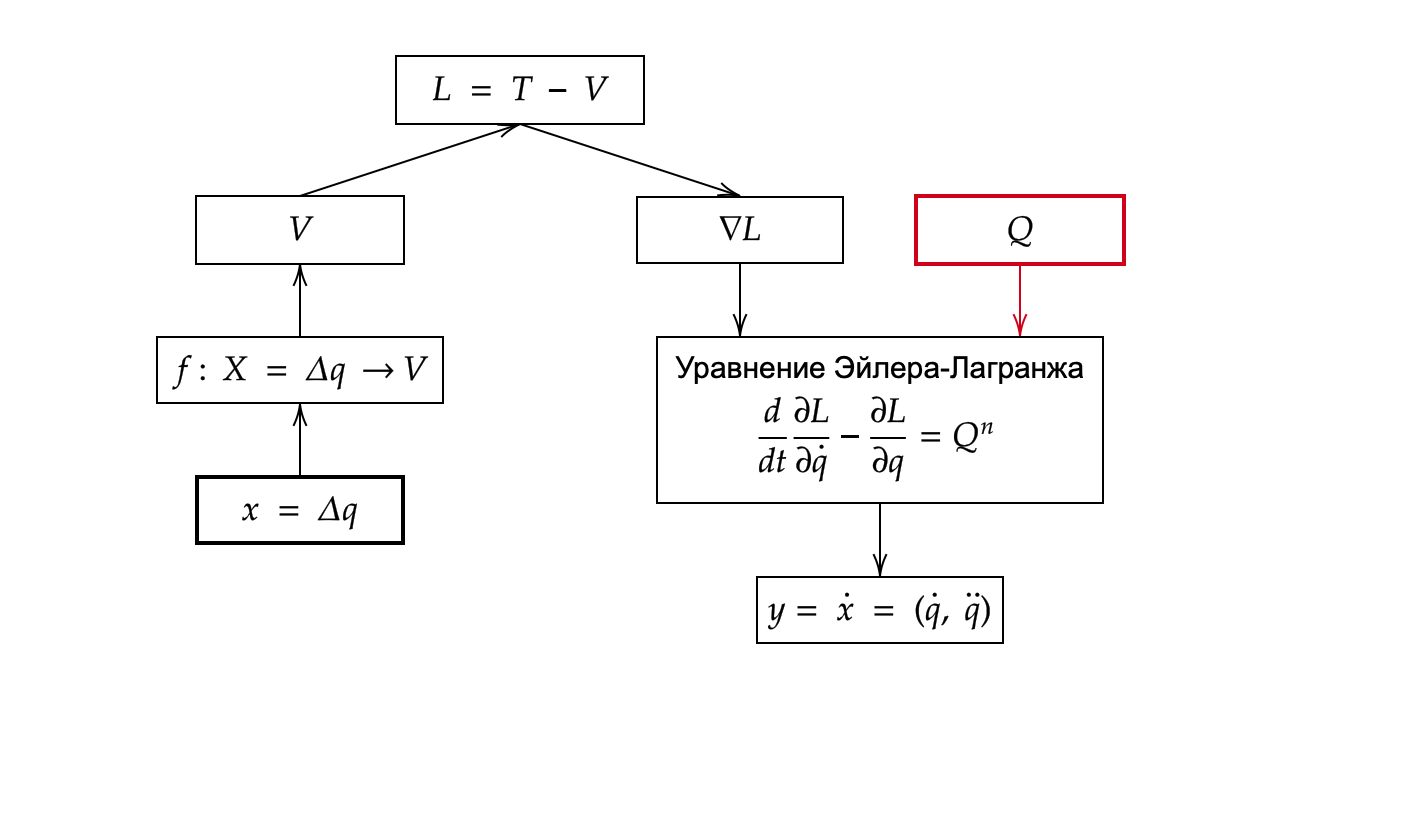
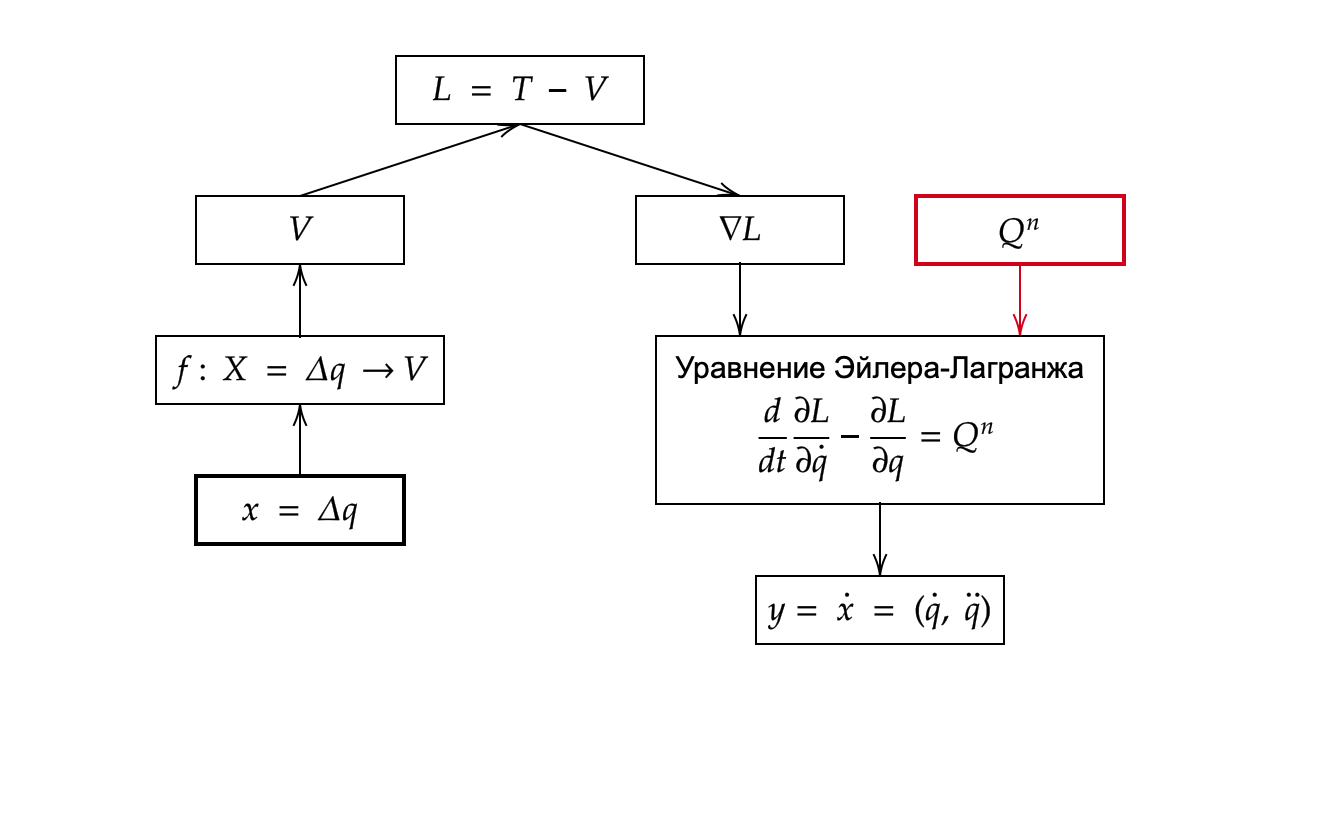
update_slides

diff --git a/slides/Bogdanov2023PINNPres.tex b/slides/Bogdanov2023PINNPres.tex
@@ -55,14 +55,14 @@
 
     $$\frac{d}{dt} \frac{\partial L}{\partial \dot{q}} - \frac{\partial L}{\partial q} = Q^n$$
     
-    $$\mathbf{\ddot{q}} = \left( \nabla_{\dot{\mathbf{q}} \dot{\mathbf{q}}} L\right)^{-1} \left[ \nabla_{q} L + Q - \left( \nabla_{\dot{\mathbf{q}} \mathbf{q}} L \right) \dot{\mathbf{q}} \right]$$
+    $$\mathbf{\ddot{q}} = \left( \nabla_{\dot{\mathbf{q}} \dot{\mathbf{q}}} L\right)^{-1} \left[ \nabla_{q} L + Q^n - \left( \nabla_{\dot{\mathbf{q}} \mathbf{q}} L \right) \dot{\mathbf{q}} \right]$$
 
     \bigskip
 
     \begin{columns}[c]
 
         \column{0.5\textwidth}
-            \includegraphics[width=1.4\textwidth]{Diagram}
+            \includegraphics[width=1.3\textwidth]{Diagram}
 
         \column{0.5\textwidth}
             \includegraphics[width=0.9\textwidth]{Trajectory} 
